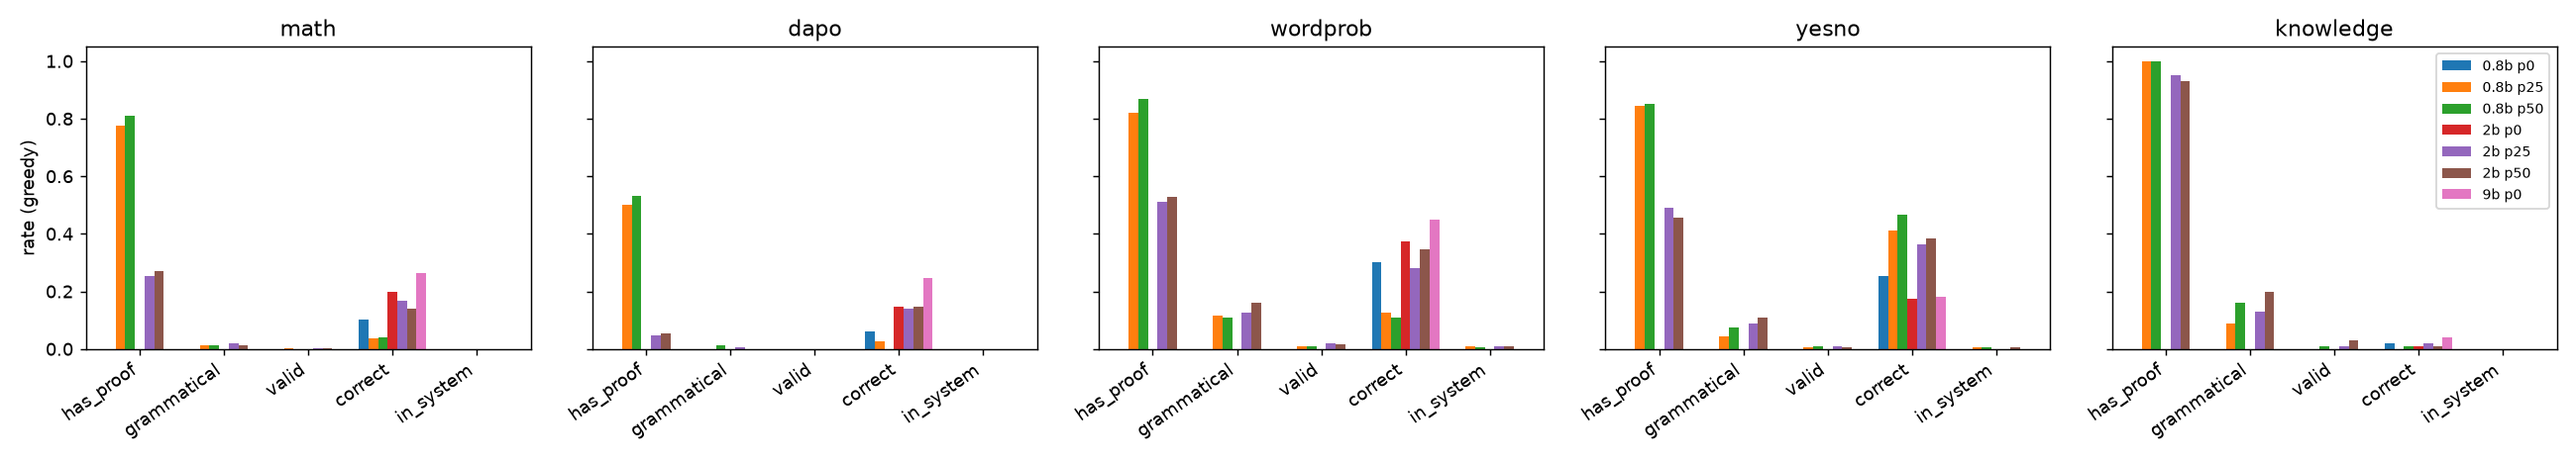
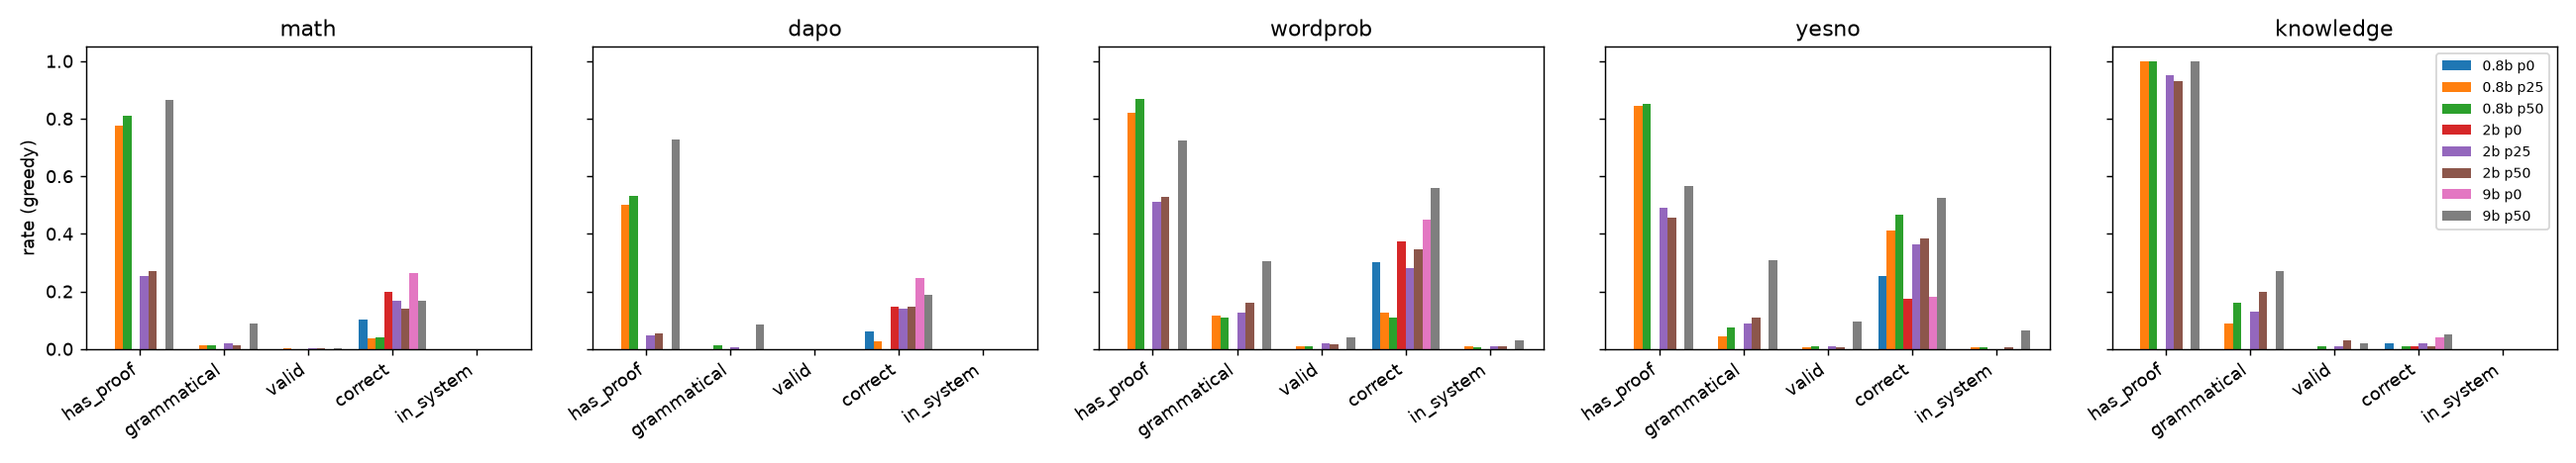
Stage 2: 9B p50 gate results, eval --max-num-seqs for shared GPUs; resubmit 9B p50 eval (7019) and G6 (7020)
Claude-Session: https://claude.ai/code/session_01WnQYXLXLcnkw9LdZ4eJP3w

diff --git a/scripts/eval_formal_vllm.py b/scripts/eval_formal_vllm.py
@@ -264,7 +264,7 @@ def generate(records, args) -> list[dict]:
         stop_ids.append(tok.eos_token_id)
     llm = LLM(model=args.model, tokenizer=args.model, dtype="bfloat16", seed=0,
               tensor_parallel_size=args.tp, max_model_len=args.max_model_len,
-              gpu_memory_utilization=args.gpu_mem, enable_prefix_caching=True,
+              gpu_memory_utilization=args.gpu_mem, enable_prefix_caching=True, max_num_seqs=args.max_num_seqs,
               limit_mm_per_prompt={"image": 0, "video": 0} if args.no_mm else None)
     states = []
     for rec in records:
@@ -320,6 +320,7 @@ def main():
     ap.add_argument("--max-model-len", type=int, default=8192)
     ap.add_argument("--tp", type=int, default=1)
     ap.add_argument("--gpu-mem", type=float, default=0.85)
+    ap.add_argument("--max-num-seqs", type=int, default=256, help="lower it on a shared GPU: hybrid (Mamba) models need one cache block per sequence")
     ap.add_argument("--no-mm", action="store_true", help="disable image/video inputs (VLM checkpoints)")
     ap.add_argument("--seed", type=int, default=0)
     args = ap.parse_args()

diff --git a/docs/current_system_state.md b/docs/current_system_state.md
@@ -9,7 +9,7 @@ This is the short operational handoff. Historical detail was preserved verbatim 
 - **Training:** Qwen3.5-Base 0.8B/2B at X=0..50 and 9B at X=0,10,25,50 are trained on Dolci with X% generated formal-CoT data.
 - **Evals:** in-domain faithful/grammatical/valid; untagged lm-eval downstream suite; format-tagged downstream eval (`eval_formal_bench_vllm.py`).
 - **Live state:** `docs/running_experiments.md`.
-- **Stage 2 (2026-09-28):** the gate failed (in_system ≈ 0.3% on the Dolci-RL prompts). The expert-iteration collection is done: prefix resampling solved 50 of 3,191 prompts, giving 77 proofs; the SFT is deferred. The GRPO pilots were restarted on a balanced prompt pool (`--max-per-bench 1200`) as 6960 (G1), 6962 (G0) and 6964 (G5 dense `lines`, gruenau12); 2B. G3 (6965) died at step 49 from an rlvl panic (fixed). The held-out gate on G5 @50 showed a circular-`given` hack, so `formal_rewards` now requires >= 1 derived line and no circular `given` for valid; the hardened arms are 6978 (G3b, gruenau12) and 7000 (G5c `lines_fmt`, gruenau8; also excludes tautological lines and zeroes the reward unless the output ends `</proof>` + `Answer:` line, after G5 padded and ran on past step 60). 6977 (G5b) cancelled. The user's fraction reward was audited (report update 21:00): plain `frac` pays an invented-premise 2-line proof 1.00 > gold .97; `frac_hard` (numeric premise check, format, no circular) floors all hacks except invented logic premises; exact faithfulness on generator items floors all. Arms: G6 (frac_hard Dolci) running as 7013 on gruenau12 after 7006 OOMed on a shared L40; G6g (+ gen items) died twice on shared A100s (7007 gruenau9, 7009 gruenau10) and waits for a clean GPU. 6964 (G5) cancelled at step 116. Foreign non-Slurm GPU processes: gruenau9 all A100s, gruenau10 GPU1-2, gruenau12 7 of 10 L40s (hallepat); `grpo_formal.slurm` has a MIN_FREE_MIB guard. GRPO code: `scripts/grpo_formal.py` + `.venv_rlvl_grpo`. Plan: `docs/research_plan.md`.
+- **Stage 2 (2026-09-28):** the gate failed (in_system ≈ 0.3% on the Dolci-RL prompts). The expert-iteration collection is done: prefix resampling solved 50 of 3,191 prompts, giving 77 proofs; the SFT is deferred. The GRPO pilots were restarted on a balanced prompt pool (`--max-per-bench 1200`) as 6960 (G1), 6962 (G0) and 6964 (G5 dense `lines`, gruenau12); 2B. G3 (6965) died at step 49 from an rlvl panic (fixed). The held-out gate on G5 @50 showed a circular-`given` hack, so `formal_rewards` now requires >= 1 derived line and no circular `given` for valid; the hardened arms are 6978 (G3b, gruenau12) and 7000 (G5c `lines_fmt`, gruenau8; also excludes tautological lines and zeroes the reward unless the output ends `</proof>` + `Answer:` line, after G5 padded and ran on past step 60). 6977 (G5b) cancelled. The user's fraction reward was audited (report update 21:00): plain `frac` pays an invented-premise 2-line proof 1.00 > gold .97; `frac_hard` (numeric premise check, format, no circular) floors all hacks except invented logic premises; exact faithfulness on generator items floors all. Arms: G6 (frac_hard Dolci) running as 7020 on gruenau9 A100 GPU0 (7006 OOMed on a shared L40; 7013 left no output); G6g (+ gen items) died on shared A100s (7007, 7009, 7021 guard exit on gruenau10) and waits for a clean GPU. 9B p50 gate (6933): in-system .020, correct .316 (9B p0 .259); 9B p50 formal eval resubmitted as 7019 (MAX_NUM_SEQS=128) after 6840 failed on Mamba cache blocks. 6964 (G5) cancelled at step 116. Foreign non-Slurm GPU processes: gruenau9 all A100s, gruenau10 GPU1-2, gruenau12 7 of 10 L40s (hallepat); `grpo_formal.slurm` has a MIN_FREE_MIB guard. GRPO code: `scripts/grpo_formal.py` + `.venv_rlvl_grpo`. Plan: `docs/research_plan.md`.
 
 ## Where To Look
 

diff --git a/docs/project_log.md b/docs/project_log.md
@@ -4162,3 +4162,4 @@ Downstream benchmarks of the "Lead into Gold" paper now run for every checkpoint
 - 21:00: Audit of the user's fraction reward `frac` = (%parsed lines + %checked derived lines + correct) / 3 (`scripts/analysis/reward_hack_audit.py`: gold proofs vs hacks on 600 held-out generator items). Plain `frac` pays the 2-line proof `lhs = a + 0 ; given "<fact>"`, `lhs = a ; calc` 1.00, more than the gold proof (.97), and prose after `</proof>` costs nothing. `frac_hard` (line credit x numbers in each `given` occur in its quote x format ok x no circular given) floors those at .33 and wrongly rejects 0/600 gold proofs, but still pays an invented logic premise (`F -> P ; given "<other fact>"`) .85. Exact faithfulness against the generator's gold forms rejects 1653/1656 of those and 0 gold proofs. Replayed on G5's real samples (`frac_replay.py`), `frac` climbs .09 -> .41 as G5 hacks (36-39% of its completions have a `given` number not in the quote), and `frac_hard` drops to .05. New arms: 7006 G6 frac_hard on Dolci (gruenau12), G6g frac_hard + 1200 generator items with exact faithfulness (`--benches gen,...`): 7007 died at vLLM start on gruenau9 (a non-Slurm process holds ~70 GB on each A100 there), resubmitted as 7009 on gruenau10 with 8 CPUs / 60G (the partition caps memory at 8 GB per CPU). Gate: G1 final correct .41 with no proofs (format 0); G5 @100 worse than @50 (format 0, correct .14). Report: update 21:00.
 - 21:30: 7006 G6 died at step 0 with CUDA OOM: its L40 had only 26.8 GB free because hallepat runs non-Slurm Qwen3.5-4B evals (10-18 GB each) on 7 of the 10 gruenau12 L40s. 7009 G6g died at vLLM start on gruenau10 GPU0 (5.3 GB free; the GPU was shared). Cancelled 6964 (G5 lines at step 116, already shown hacked and gated @50/@100; held 3 L40s for one run, and with 6840/6933 starting put laitenbf at 6/10 on gruenau12). grpo_formal.slurm now exits 3 when free memory < MIN_FREE_MIB. Resubmitted G6 as 7013 (gruenau12 L40, MIN_FREE_MIB=44000). G6g is not resubmitted yet: no clean GPU is free within the caps (gruenau9 A100s all ~66-68 GB used by foreign processes).
 - 21:25: alex `/home/atuin` group quota cleanup (was 11.0T > 10.7T soft, 454K files; approved by the user): deleted the optimizer states of the 9 finished nanotron longwin midtrain runs (step 2385; model weights kept), the p30 intermediate step 2250, `post_sft_narrative_20260915/qwen25_7b_tulu3_control_seed3407/checkpoint-782` (final kept), the two large-LoRA smoke `checkpoint-4`, the HF cache of Qwen2.5-32B and Qwen3-30B-A3B-Base, and the vllm/uv/triton/inductor caches under `.cache_rlvl`. Now 9.8T, 402K files. Log: `/home/atuin/c107fa/c107fa12/synthetic-RLVL/cleanup_20260928.log`. Kept: all `post_sft_*/final`, datasets, eval outputs, and the orphan `qwen25_7b_dose_logic_p001_seed3407/checkpoint-500` (no final).
+- 21:45: 9B p50 gate (6933, 950 held-out, greedy): has_proof .765, grammatical .200, valid .032, correct .316 (9B p0 .259), in-system .020 (2B p50 .003). Correct rises on yes/no (.53 vs .18) and word problems (.56 vs .45) and falls ~.08 on math/DAPO, where 9B p50 still writes proofs that do not parse. 6840 (9B p50 formal eval) failed at vLLM start: hybrid model needs one Mamba cache block per sequence, a shared L40 fit 219 < 256. Added `--max-num-seqs` to eval_formal_vllm.py (`MAX_NUM_SEQS` in the eval job); resubmitted as 7019 (gruenau12 L40, 128). Report: stage2_gate update 21:45. G6 resubmitted as 7020 on gruenau9 (GPU0 clean now; 7013 left no output); G6g 7021 exited on the guard on gruenau10 (shared GPU).

diff --git a/reports/2026-09-28_stage2_gate.md b/reports/2026-09-28_stage2_gate.md
@@ -35,6 +35,7 @@ Plan: `docs/research_plan.md`, "Gate to Stage 2". **Verdict: the gate fails.** O
 | 2B | 25 | .398 | .066 | .008 | .213 | .002 |
 | 2B | 50 | .399 | .082 | .008 | .222 | .003 |
 | 9B | 0 | .000 | .000 | .000 | .259 | .000 |
+| 9B | 50 | .765 | .200 | .032 | .316 | .020 |
 
 ![per-bench gate rates](figures/stage2_gate_per_bench.png)
 
@@ -45,6 +46,7 @@ Plan: `docs/research_plan.md`, "Gate to Stage 2". **Verdict: the gate fails.** O
 | 0.8B p50 | .81 / .01 / .04 | .53 / .01 / .00 | .87 / .11 / .11 | .85 / .07 / .47 | 1.0 / .16 / .01 |
 | 2B p50 | .27 / .01 / .14 | .05 / .00 / .15 | .53 / .16 / .34 | .46 / .11 / .39 | .93 / .20 / .01 |
 | 9B p0 | – / – / .26 | – / – / .25 | – / – / .45 | – / – / .18 | – / – / .04 |
+| 9B p50 | .87 / .09 / .17 | .73 / .09 / .19 | .73 / .31 / .56 | .57 / .31 / .53 | 1.0 / .27 / .05 |
 
 **Observations:**
 - **The tag is obeyed less on hard math.** 2B p50 writes a proof on only 27% of math and 5% of DAPO prompts. It falls back to natural language, which is a reasonable choice since the system cannot express most of these problems. 0.8B p50 always tries, and fails.
@@ -402,4 +404,20 @@ G1 improves correct steadily (.22 SFT to .41) and loses the proof format complet
 - Semantic premise check for Dolci logic premises (e.g. an LLM judge, or a formalize-back check); the
   numeric check covers only numbers (update 21:00).
 - EI round-1 SFT on `formal_ei_20260928/2b_r1` once GPUs free up. Possibly merge it with in-system samples from the GRPO runs first.
-- Gate for 9B p50 (6933).
+
+## Update 21:45: 9B p50 gate (6933)
+
+| model | has proof | grammatical | valid | correct | in-system |
+|---|---|---|---|---|---|
+| 2B p50 | .399 | .082 | .008 | .222 | .003 |
+| 9B p0 | .000 | .000 | .000 | .259 | .000 |
+| 9B p50 | .765 | .200 | .032 | .316 | .020 |
+
+The two figures above (per bench, error breakdown) now include 9B p50.
+
+- **Scale helps every formal rate.** 9B p50 is 2.4× as grammatical as 2B p50 and has 7× its in-system rate (19 of 950 items, all on yes/no and word problems).
+- **The mixture does not cost 9B correctness under the tag.** Overall correct is .316 against .259 for 9B p0. The gain comes from yes/no (.53 against .18) and word problems (.56 against .45). On math and DAPO p50 loses about .07–.09: it writes a proof on 87% / 73% of those prompts, and only 9% are grammatical.
+- **Unlike 2B, 9B does not fall back to natural language on hard math.** 537 of its 727 proofs fail to parse.
+- 9B is the strongest Stage-2 starting point. GRPO on 9B needs an H100 pair, however, and those are busy with the Stage-1 9B cells (p25 6841, then p10 6843).
+- The 9B p50 formal eval (6840) died at vLLM start: a hybrid model needs one Mamba cache block per sequence, and a shared L40 fit only 219 of the 256 it wanted. `eval_formal_vllm.py` now has `--max-num-seqs` (`MAX_NUM_SEQS` in the eval job). The eval was resubmitted as 7019 with 128.
+- **GRPO arms:** 7013 (G6) left no output after 20:11. G6 was resubmitted as 7020 on gruenau9, where A100 GPU0 is now clean. G6g (7021) was stopped by the free-memory guard on a shared gruenau10 A100 and is still waiting.

diff --git a/docs/experiment_backlog.md b/docs/experiment_backlog.md
@@ -8,7 +8,7 @@ This file is for planned work that is not yet running. Running jobs live in `doc
 
 | Priority | Item | Why | Trigger |
 | --- | --- | --- | --- |
-| Next 2026-09-28 | Stage 2 GRPO arms G0–G5, full runs (`scripts/grpo_formal.py`) | Research plan Stage 2 | After the gate passes (EI bootstrap and 200-step balanced-pool pilots G1 6960, G0 6962, G5 6964 running; hardened-validity arms G3b 6978 / G5c 7000 (lines x format gate; G5b 6977 cancelled); fraction-reward arms G6 7013 (7006 OOM) (frac_hard, Dolci) / G6g (7007/7009 died on shared GPUs; waiting for a clean GPU) (frac_hard + generator items with exact faithfulness); next: semantic premise check for Dolci logic premises; see `reports/2026-09-28_stage2_gate.md`) |
+| Next 2026-09-28 | Stage 2 GRPO arms G0–G5, full runs (`scripts/grpo_formal.py`) | Research plan Stage 2 | After the gate passes (EI bootstrap and 200-step balanced-pool pilots G1 6960, G0 6962, G5 6964 running; hardened-validity arms G3b 6978 / G5c 7000 (lines x format gate; G5b 6977 cancelled); fraction-reward arms G6 7020 (7006 OOM, 7013 no output) (frac_hard, Dolci) / G6g (7007/7009/7021 died on shared GPUs; waiting for a clean GPU) (frac_hard + generator items with exact faithfulness); next: semantic premise check for Dolci logic premises; see `reports/2026-09-28_stage2_gate.md`) |
 | Running 2026-09-25 | Formal-CoT SFT mixture sweep: 0.8B and 2B, X=0..50 | Lane layout, see `docs/running_experiments.md`. The 9B runs (X=0,10,25,50) run on gruenau11 with 2 × H100 under DeepSpeed ZeRO-2 CPU-offload + liger FLCE (FSDP OOMed; jobs 6837/6839/6841/6843). Downstream benchmarks for all cells run on guppi lanes (2026-09-26). | Run `scripts/analysis/analyze_formal_mixture_sweep.py` and `scripts/analysis/formal_mix_bench_table.py` as cells finish. Inspect raw generations. |
 | Pending 2026-09-26 | Format-tagged benchmarks for every sweep checkpoint (0.8B, 2B, 9B) | Measures whether models reason fully in the system on real benchmarks: grammatical, valid and in-system correct. The untagged lm-eval run only measures transfer. | Submit with `scripts/submit_formal_mix_bench_lanes.sh --tagged --chain ...` once Slurm is back and the smoke run (PER_BENCH_LIMIT=5) looks sane. Then run `scripts/analysis/formal_mix_tagged_table.py`. |
 | P0 sampled readout complete 2026-08-07 | Real-benchmark pass@k / maj@k readout for the three-way post-SFT checkpoints | `3962322_[0-5%3]` completed `0:0`; all six full-coverage audits accept corrected RoPE, prompt hashes, 16 samples/doc, and zero truncation. Raw correct/incorrect examples across all five tasks reproduce the established answer-boundary confound. Standard pass@16 control/logic/NL is `0.7588/0.7540/0.7621`; tagged multi-hop is `0.5150/0.5383/0.5283`, with sampled tag rates `0.6445/0.8346/0.8440` and fallback `0.5317/0.5417/0.5317`. | Diagnostic is ingested in `analysis/dolmino_threeway_post_sft_readout_20260806.md` and does not alter the one-run null-for-reasoning verdict. Do not use sampled pass@k/maj@k as a positive transfer claim or launch the percentage grid; P0 remains the compact/document-preserving loader gate. |

diff --git a/docs/running_experiments.md b/docs/running_experiments.md
@@ -18,6 +18,7 @@ This file is the live Slurm dashboard. Historical details live in `docs/operatio
   - 2026-09-28 17:35: hardened-validity arms (valid needs >= 1 derived line, no circular `given`): **6977 G5b lines (gruenau8 A6000, partition gpu)**, **6978 G3b gvc (gruenau12 L40, gpu-staff)**, both batch 1, vllm-mem 0.25, 200 steps, save every 50. 6959/6961 (gruenau9) died: another user's non-Slurm process took 49 GB of the GPU. 6955–6958 cancelled: `sbatch --export=...,EXTRA_ARGS="a,b"` splits at commas; export the variables in the shell and use `--export=ALL`.
   - 2026-09-28 19:45: 6977 G5b cancelled at step ~27 (same lines formula as G5, which padded proofs and dropped the `Answer:` line after step 60). **7000 G5c `--arm lines_fmt` (gruenau8 A6000, partition gpu, batch 1, vllm-mem 0.25, 200 steps, save every 50)**: lines x format_ok, tautological derived lines excluded.
   - 2026-09-28 21:30: 7006 G6 died at step 0 with CUDA OOM: its L40 had only 26.8 GB free because hallepat runs non-Slurm Qwen3.5-4B evals (10-18 GB each) on 7 of the 10 gruenau12 L40s. 7009 G6g died at vLLM start on gruenau10 GPU0 (5.3 GB free; the GPU was shared). Cancelled 6964 (G5 lines at step 116, already shown hacked and gated @50/@100; held 3 L40s for one run, and with 6840/6933 starting put laitenbf at 6/10 on gruenau12). grpo_formal.slurm now exits 3 when free memory < MIN_FREE_MIB. Resubmitted G6 as 7013 (gruenau12 L40, MIN_FREE_MIB=44000). G6g is not resubmitted yet: no clean GPU is free within the caps (gruenau9 A100s all ~66-68 GB used by foreign processes).
+  - 2026-09-28 21:45: 6840 (9B p50 formal eval) failed at vLLM start (Mamba cache blocks 219 < max_num_seqs 256 on a shared L40); resubmitted as 7019 with MAX_NUM_SEQS=128. 9B p50 gate 6933 done (in-system .020, correct .316). G6 resubmitted as 7020 (gruenau9 A100, MIN_FREE_MIB=60000); G6g 7021 guard exit on gruenau10.
   - 2026-09-28 21:00: **7006 G6 `--arm frac_hard` (gruenau12 L40, partition gpu-staff)** on Dolci math/wordprob/yesno; **7009 G6g `--arm frac_hard --benches gen,dolci_math,dolci_wordprob,dolci_yesno` (gruenau10 A100, partition gpu, `--cpus-per-task=8 --mem=60G`; 7007 died on gruenau9, where a foreign process fills the A100s; 7008 cancelled because 100G needs 13 CPUs at MaxMemPerCPU=8G)**. Both 2B p50, batch 1, vllm-mem 0.25, 200 steps, save every 50. frac_hard = ((%parsed + %checked derived lines) x premise ok x format ok x not circular + correct) / 3; premise ok = numbers in each `given` occur in its quote, or exact faithfulness on gen items.
   - Question: does a dense line-credit reward (user suggestion, hardened) raise grammatical/valid rates before EI yields enough proofs?
 - **Gate on GRPO checkpoints** (17:10, `scripts/slurm/jobs/grpo_gate_ckpts_in_6964.sh`, run with `srun --jobid 6964 --overlap` on the allocation's otherwise idle third L40, so no extra GPU): G5 ckpt-50, G1 ckpt-100, G0 ckpt-50, output `<run>/<ckpt>/rl_gate_dolci/`. Log `logs/grpo_gate_ckpts_6964.log`.
